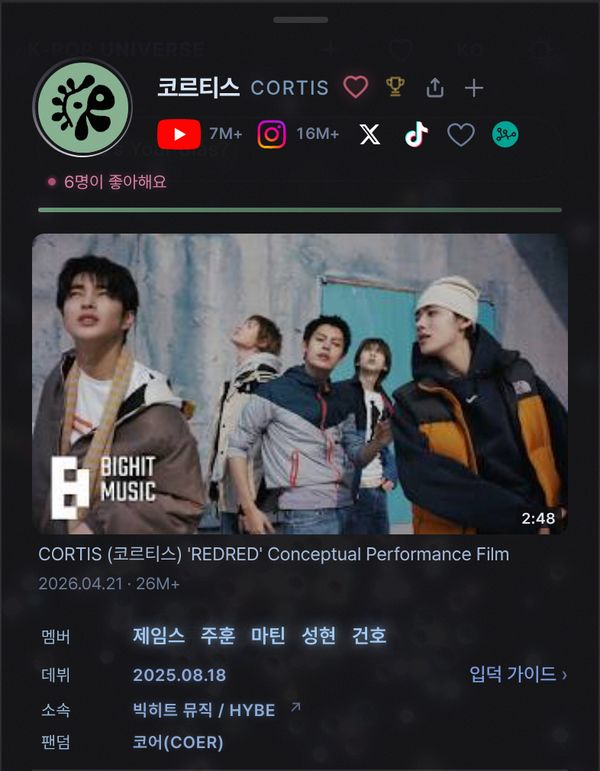
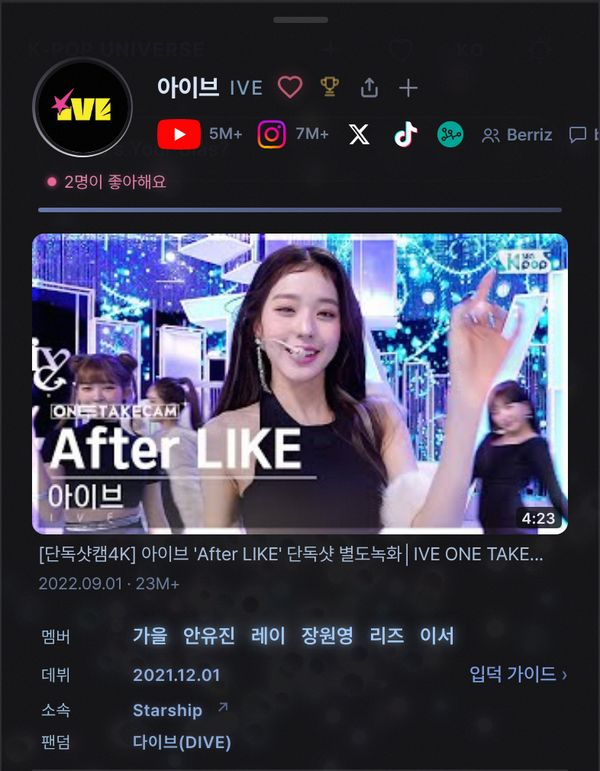
사이트 소개: 화면 사진을 여러 그룹으로(아이브·투어스·에스파)
Claude-Session: https://claude.ai/code/session_01XUta7tw4fb9y9iboAmmzvP

diff --git a/about.html b/about.html
@@ -85,7 +85,7 @@
         <p>그룹은 행성, 멤버는 그 주위의 별입니다. 유닛·콜라보·함께한 무대가 선으로 이어져, 한 사람에서 다음 사람으로 따라갈 수 있습니다.</p>
         <p class="how"><b>행성</b>을 누르면 그룹 카드, <b>별</b>을 누르면 멤버 카드가 열립니다.</p>
       </div>
-      <img class="shot" src="about/card.jpg" alt="그룹 카드 — 대표 영상, 멤버, 데뷔일, 소속" width="600" height="771" loading="lazy">
+      <img class="shot" src="about/card.jpg?v=2" alt="아이브 그룹 카드 — 대표 영상, 멤버, 데뷔일, 소속" width="600" height="771" loading="lazy">
     </article>
     <article class="step">
       <div class="txt">
@@ -94,16 +94,16 @@
         <p>처음 보는 그룹도 어디서부터 볼지 고민하지 않게 순서를 잡아 둡니다. 대표곡 → 무대 → 멤버별 직캠 → 예능·자체 콘텐츠.</p>
         <p class="how">그룹·멤버 카드의 <b>입덕 가이드 ›</b>에서 시작합니다.</p>
       </div>
-      <img class="shot" src="about/guide.jpg" alt="입덕 가이드 — 대표곡부터 순서대로 놓인 영상 목록" width="600" height="977" loading="lazy">
+      <img class="shot" src="about/guide.jpg?v=2" alt="투어스 입덕 가이드 — 대표곡부터 순서대로 놓인 영상 목록" width="600" height="977" loading="lazy">
     </article>
     <article class="step">
       <div class="txt">
         <span class="n">03</span>
         <h2>말하듯 검색</h2>
         <p>이름만이 아니라 원하는 장면을 그대로 적으면 됩니다. 그룹·멤버·곡·프로그램·공연까지 한 번에 찾습니다.</p>
-        <p class="how"><b>성현 최근 직캠</b> · <b>아이브 음악중심 무대</b> · <b>신유 영재</b>처럼.</p>
+        <p class="how"><b>카리나 최근 직캠</b> · <b>아이브 음악중심 무대</b> · <b>신유 영재</b>처럼.</p>
       </div>
-      <img class="shot" src="about/search.jpg" alt="검색 — '성현 최근 직캠'으로 찾은 직캠 목록" width="600" height="916" loading="lazy">
+      <img class="shot" src="about/search.jpg?v=2" alt="검색 — '카리나 최근 직캠'으로 찾은 직캠 목록" width="600" height="916" loading="lazy">
     </article>
     <article class="step">
       <div class="txt">

diff --git a/CHANGELOG.md b/CHANGELOG.md
@@ -174,7 +174,7 @@
 - **✅ [seo_play.js·seo_vids.js·song-page.css] 정적 곡 페이지 3건**(11-21 사용자 스크린샷): ①앨범 칩 — 알약 테두리 없이 글자 + '›'("화살표로 충분, 둥그런 테두리 지워줘") ②'더 보기 (29개 남음)' 상자 버튼 → 가운데 글자 '더 보기 29 ›'("너무 투박해") ③크레딧 내어쓰기 — 이름이 다음 줄로 넘어가도 '작사·작곡' 칸 밑은 비우고 이름 칸 왼쪽에 맞춤(역할 칸 54px + 간격 8px). seo_play.js에도 같은 규칙을 넣어 캐시된 옛 CSS에서도 바로 적용. `SONG_CSS_V` 22. 실페이지(코르티스 ACAI)에 끼워 폰 화면 확인.
 - **✅ [seo_play.js] 정적 페이지 상태 줄 순서**(11-21 사용자 "맨 처음 접속했을 때 '이번 주 n명이 다녀갔어요'부터"): 좋아해요 → 흔적 → 다녀간 사람 순이던 걸 **다녀간 사람 → 좋아해요 → 흔적**으로. 실페이지에서 첫 줄 확인.
 - **✅ [song-page.css·seo_play.js] 작사·작곡 페이지 꼬리표**(11-21 사용자 스크린샷 "줄마다 '작사·작곡'이라는 말은 작고 흐리게"): 곡 제목 옆 '작사·작곡'이 제목과 같은 크기였다 — 흐리게 하는 규칙이 `ol.vid-list`에만 걸려 있고 이 페이지는 `ul`이었음. `ul.vid-list>li>.yr`에 같은 스타일(11.5px·흐린 색).
-- **✅ [about.html·about/] 사이트 소개 — 가이드형으로 다시**(11-21 사용자 "좀 더 멋지게, 시각 자료나 가이드처럼 충분한 기능 설명"): 맨 위 한 문장('Find your place in K-pop')+숫자 4개+우주 화면, 그 아래 기능 5가지(우주에서 찾기 / 입덕 가이드 / 말하듯 검색 / 직캠 순위·곡별 모음 / 나의 기록)를 화면 사진과 함께 — 폰은 글→사진 세로, PC는 좌우 번갈아. 출처·운영·권리 침해 신고 글은 그대로 아래에. 화면 사진 6장(`about/*.jpg`, 장당 18~96KB)은 로컬 앱을 폰 크기로 띄워 찍은 것 — **화면이 크게 바뀌면 다시 찍을 것**(찍는 법: 앱을 393×780으로 띄워 그룹 카드·입덕 가이드·검색 '성현 최근 직캠'·결산 스토리, 순위 페이지). 숫자(290+·1,900+·14,000+·2,000+)는 손으로 적은 값. 폰·PC 전체 캡처 확인. [Fable 권장] 더 다듬는다면 사진 대신 짧은 움직이는 화면.
+- **✅ [about.html·about/] 사이트 소개 — 가이드형으로 다시**(11-21 사용자 "좀 더 멋지게, 시각 자료나 가이드처럼 충분한 기능 설명"): 맨 위 한 문장('Find your place in K-pop')+숫자 4개+우주 화면, 그 아래 기능 5가지(우주에서 찾기 / 입덕 가이드 / 말하듯 검색 / 직캠 순위·곡별 모음 / 나의 기록)를 화면 사진과 함께 — 폰은 글→사진 세로, PC는 좌우 번갈아. 출처·운영·권리 침해 신고 글은 그대로 아래에. 화면 사진 6장(`about/*.jpg`, 장당 18~96KB)은 로컬 앱을 폰 크기로 띄워 찍은 것 — **화면이 크게 바뀌면 다시 찍을 것**(찍는 법: 앱을 393×780으로 띄워 그룹 카드·입덕 가이드·검색 '성현 최근 직캠'·결산 스토리, 순위 페이지). 숫자(290+·1,900+·14,000+·2,000+)는 손으로 적은 값. 화면 사진은 그룹을 섞었다(사용자 "당연히 다 코르티스면 안 되지") — 카드=아이브, 입덕 가이드=투어스, 검색='카리나 최근 직캠'(에스파), 순위=여러 그룹. 폰·PC 전체 캡처 확인. [Fable 권장] 더 다듬는다면 사진 대신 짧은 움직이는 화면.
 - **✅ [index.html] 발견 탭 — 진행 중 행사 칸(MAMA)을 This Week 아래로**(11-21 사용자 "지금 그대로 위치만"): 맨 위에서 This Week's K-pop 섹션 바로 아래(Charts 위)로. For You 쪽 칸은 그대로.
 - **[이슈·진단 도구] 앱 스크롤 '시작할 때 너무 많이·민감하게'(6번째 제보, 11-21)** — **원인 못 찾음, 동작은 안 바꿈**. 헤드리스 크롬에 진짜 터치 이벤트(CDP dispatchTouchEvent — synthesizeScrollGesture는 터치 이벤트를 안 만들어 측정이 안 됨)로 재 보니 그룹 카드·탐험 탭 모두 손가락 160px에 80→96→115→138→145px(맨 위 400px 구간 감쇠 0.5→1, 그 아래 0.91배), 튐·시트 이동 없음 → **크롬에선 재현 안 됨, 아이폰 전용 현상**. 추측 수정은 이미 다섯 번 했으므로(_wireFirstScrollDamp·_wireScrollStabilizer·시트 끌기 데드존) 이번엔 기기에서 잰다: **`?scrolldiag=1`로 열면**(끄기 `?scrolldiag=0`) 화면 위에 최근 손짓 6개가 찍힌다 — `#번호 스크롤칸 @시작위치 손가락px→손 대는 동안px→뗀 뒤px 시간 [코드가 스크롤 위치를 바꾼 기록]`(app.js `_scrollDiag`, 읽기만). 사용자 캡처를 받으면: '뒤'가 크면 관성(자체 관성 `_wireFirstScrollDamp` 또는 iOS 기본), 대괄호에 '보정'이 있으면 `_wireScrollStabilizer`가 손짓 중에 scrollTop을 쓴 것, '탭바숨김/표시'와 겹치면 시트 크기 전환. 의심 순위(미검증): ①맨 위 400px 구간의 자체 스크롤+자체 관성(카드는 대부분 이 구간에서 본다) ②iOS에서 손짓 중 JS가 scrollTop을 쓰는 보정.
 - **✅ [shared.js·admin.js·tests/parody-ref.test.js] '그 그룹이 안 나오고 얘기만 나오는 영상' 자동 보류**(11-21 사용자 — "A2O LITE 만나고 현타 온 영미 DJ #두시의데이트 #안영미", "아저찡 (feat.A2O LITE 아이찡)" 두 건을 손으로 무관 처리, "제목만으로 쉽진 않겠지만 로직을 진지하게"): 제목만으로 다 가를 수는 없어 **좁고 확실한 두 꼴**만 외부 동기화에서 '보류'+검수로(기존 '따라 해 본 영상' 보류와 같은 자리). ①**후기형**(`_mentionOnlyCue`) — 그룹명이 목적어이고 다른 사람이 주어: "○○(을/를/랑) 만나고 … 온/난/된/받은/빠진 △△"·"만난 뒤/후"·"영접하고". "팬들 만나고 온 ○○"(그룹이 주어)·"○○ 보고 싶다"·"만나고 싶어"·"만나고 왔어요"는 안 걸림. ②**농담 feat**(`_featJokeCue`) — 해시태그 뗀 제목 전체가 "12자 이하 한 덩어리 (feat. …)"이고 그룹·멤버 표기가 괄호 안에만 — **예능·출연·잡지 채널에서만**(음악 채널·음방의 "곡명 (feat. 가수)"는 진짜 참여), 괄호 앞에 그룹명이 있으면 제외. 주인·팬·공식 채널은 둘 다 제외, 멤버 이름이 잡혀도 적용. **차분**: 이미 태깅된 외부 채널 영상 4,236건(15개 그룹, 예능 1,074·잡지 2,826·출연 148·아이돌 188)에 돌려 걸린 건 1건 — 사용자가 이미 무관 처리한 '아저찡'뿐(정상 영상 손실 0). 테스트 16건 추가. **한계**: 이 두 꼴 밖의 '얘기만 나오는 영상'(예: "○○ 성덕 인증", "○○ 얘기하다 운 썰")은 여전히 못 거른다 — 새 사례가 나오면 꼴을 하나씩 더할 것. 이미 DB에 들어간 영상엔 소급 안 됨(새로 들어오는 것부터).
